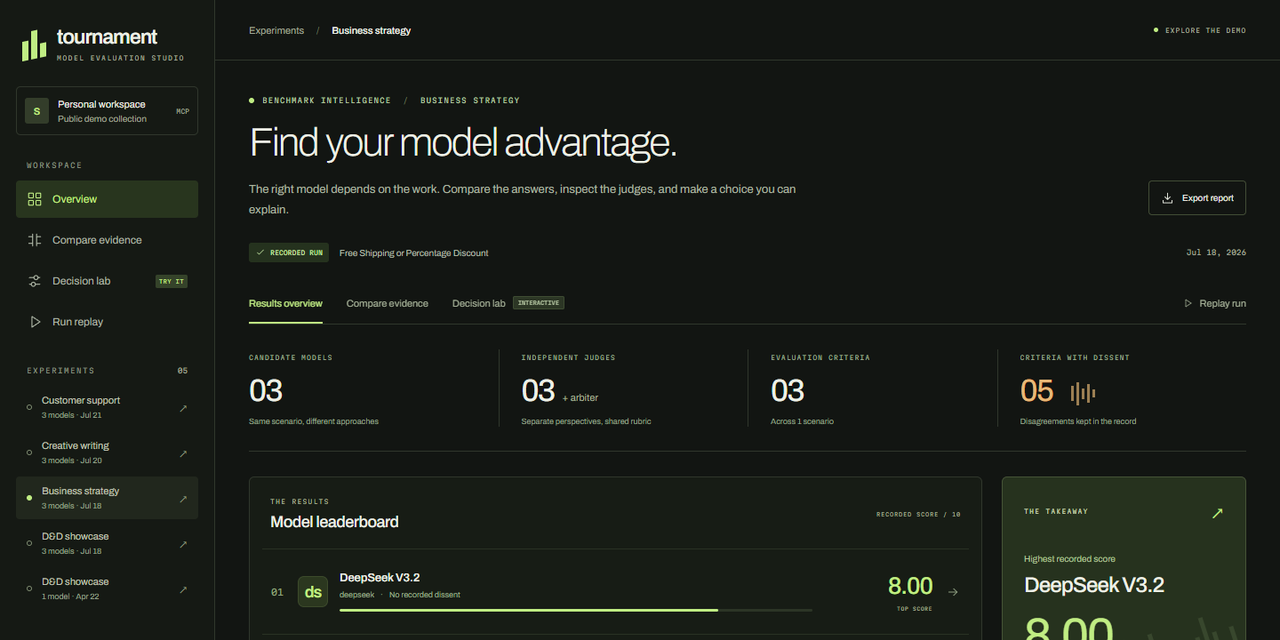
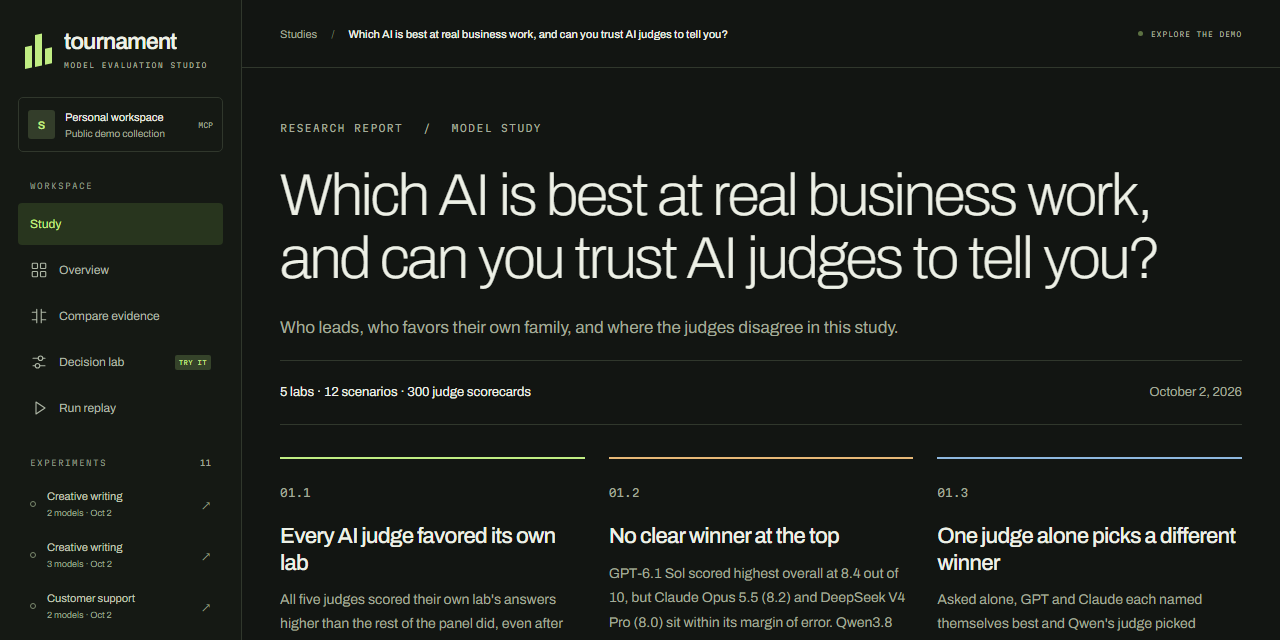
docs: lead the README with the flagship study findings

diff --git a/README.md b/README.md
@@ -6,9 +6,11 @@
 ![Node >= 20](https://img.shields.io/badge/Node-%3E%3D%2020-339933?logo=nodedotjs&logoColor=white)
 ![MCP server](https://img.shields.io/badge/MCP-server-5A67D8)
 
+**In this study, all five AI judges scored their own lab's answers higher than the rest of the panel did.** Five frontier models answered twelve business scenarios and then judged each other blind. **[Read the findings](https://mcp-tournament.pages.dev/#/study/flagship-2026-10)**.
+
 Build a custom LLM benchmark in a form, run it from a local GUI, MCP client, or CLI, and turn independent judge opinions into ranked, auditable results.
 
-![Evaluation workspace with recorded model rankings and judge disagreement](docs/images/leaderboard-1440.png)
+![Study findings: which AI is best at real business work, and can you trust AI judges to tell you?](docs/images/study-1440.png)
 
 **[Explore the interactive demo](https://mcp-tournament.pages.dev/#/run/run-2026-07-18-194500)**: compare a recorded business-strategy experiment, inspect the evidence, and try your own criterion weights. No key needed.
 
@@ -17,6 +19,30 @@ Why this is interesting:
 - **Disagreement is data:** multiple specialist judges score independently; the arbiter preserves outliers and explains where they diverged.
 - **Benches are declarative:** anyone can define scenarios and criteria as JSON or build them in a form, no pipeline code required.
 - **BYOK and local-first:** bring one OpenRouter key, keep the GUI on your machine, and run budget-tier tournaments for cents.
+
+## The flagship study
+
+Claude Opus 5.5, GPT-6.1 Sol, Gemini 3.1 Pro, DeepSeek V4 Pro and Qwen3.8 Max
+each answered the same twelve scenarios across business strategy, customer
+support and creative writing. Every model then scored every answer, its own
+included, without seeing who wrote it: 300 scorecards in all.
+
+- **Every judge favored its own lab.** After adjusting for how generous each
+  judge was overall, all five scored their own family higher than the rest of
+  the panel did. The pull ranged from about 0.3 points (DeepSeek) to 1.4 points
+  (GPT) on a 10-point scale, and every 95% interval sits above zero.
+- **No clear winner at the top.** GPT-6.1 Sol led at 8.4, with Claude Opus 5.5
+  (8.2) and DeepSeek V4 Pro (8.0) inside its margin of error.
+- **One judge alone picks a different winner.** GPT and Claude each named
+  themselves best when judging alone, and the panel agreed only weakly overall
+  (Krippendorff's alpha 0.30).
+
+![Self-preference heatmap: each judge's score offset from the rest of the panel, by candidate family](docs/images/study-heatmap.png)
+
+The findings page links every number back to the transcripts and judge
+reasoning behind it, and the raw scores download as CSV. Recorded API cost:
+$7.25. Results apply to these scenarios and settings; the page lists what the
+study does not show. To run your own, see [the study format](docs/STUDY_FORMAT.md).
 
 ## A model choice you can explain
 
